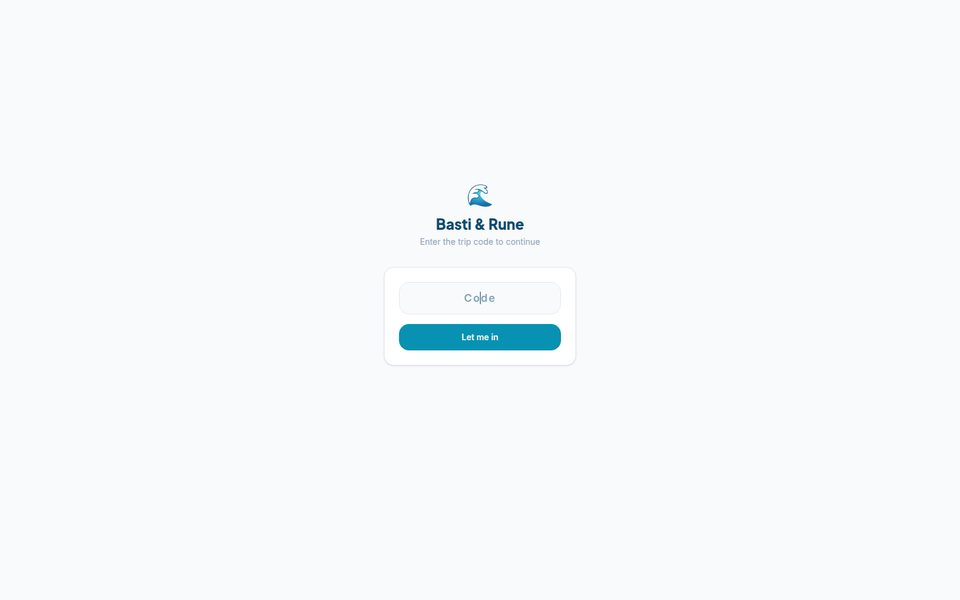
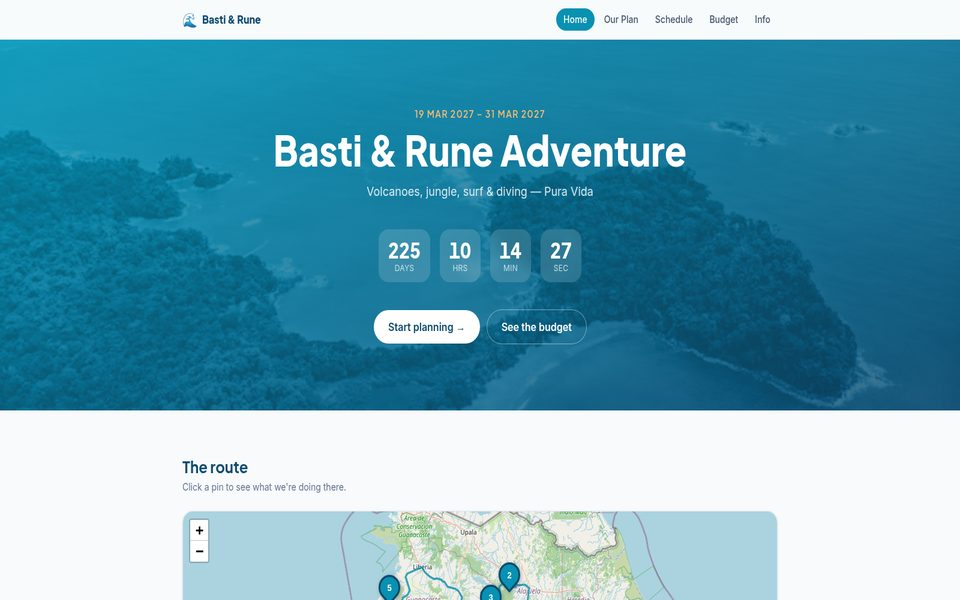
Use real Basti dashboard screenshot; add Vaultwarden card

diff --git a/index.html b/index.html
@@ -528,6 +528,15 @@
       img: "img/chat.jpg",
       icon: "🤖",
       color: "#333333"
+    },
+    {
+      name: "Vaultwarden",
+      tag: "Security",
+      desc: "Self-hosted, Bitwarden-compatible secrets manager — passwords, tokens and keys, locked behind Cloudflare Access plus its own master password.",
+      url: "https://vault.keldsen.org",
+      img: "img/vault.jpg",
+      icon: "🔐",
+      color: "#1f2933"
     }
   ];
 
